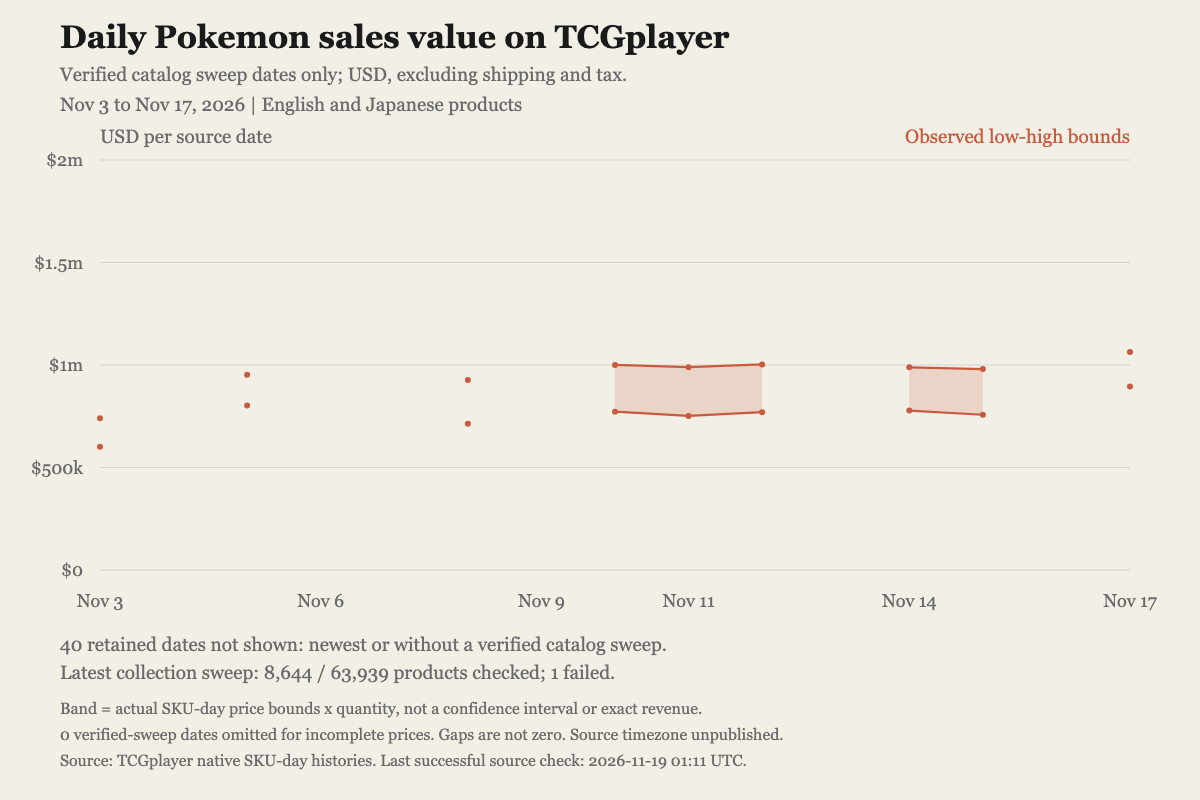
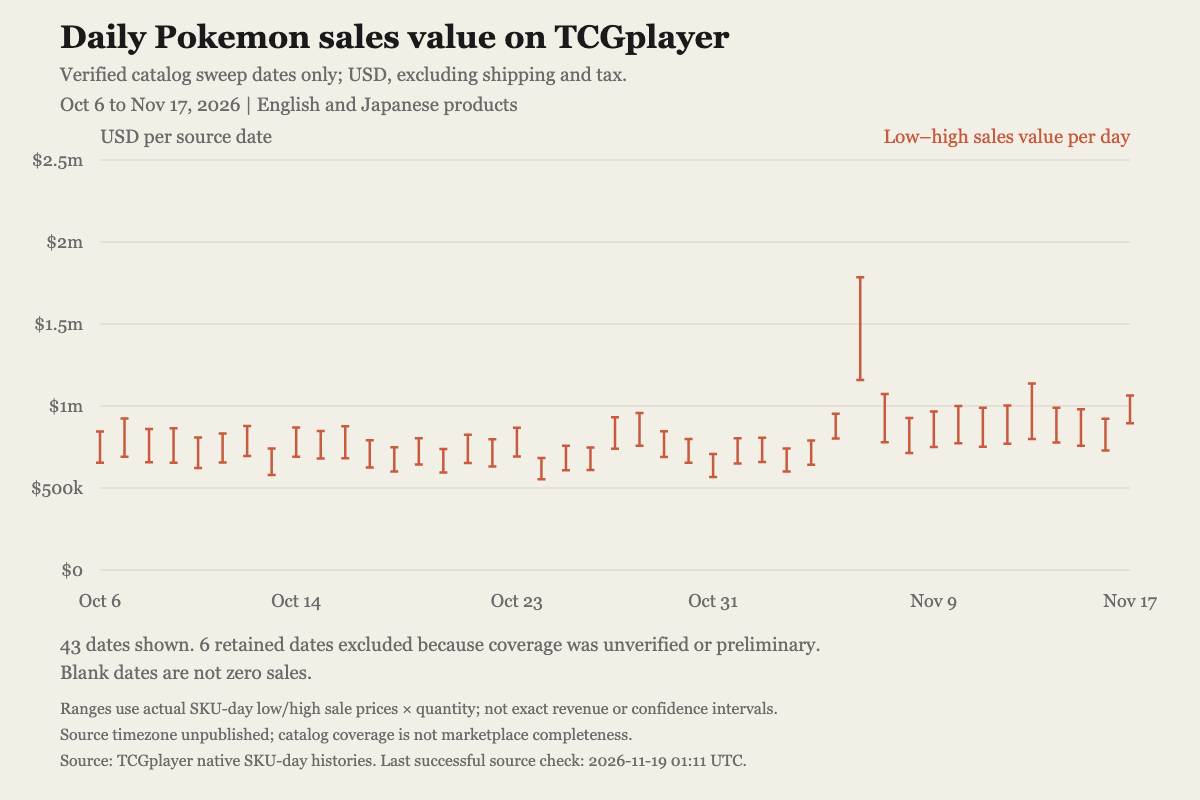
Verify historical backfills and plot consistent daily sales ranges

diff --git a/src/sales-figure.js b/src/sales-figure.js
@@ -5,7 +5,6 @@ import { createHash } from 'node:crypto';
 import { dailyCsv, writeVolumeFigure } from './figures.js';
 import { csv } from './store.js';
 
-const day = 86400000;
 const escape = value => String(value).replace(/[&<>"']/g, char =>
   ({ '&': '&amp;', '<': '&lt;', '>': '&gt;', '"': '&quot;', "'": '&apos;' })[char]);
 const count = value => Number(value).toLocaleString('en-US');
@@ -57,47 +56,34 @@ export function salesFigure(rows, coverage, background = '#F7F5F0') {
   const x = date => maximum === minimum ? 615 : 100 + (Date.parse(date) - minimum) / (maximum - minimum) * 1030;
   const top = 160, bottom = 570;
   const visible = data.filter(row => row.plot_lower_usd !== '');
-  const rawCeiling = Math.max(1,...visible.map(row => row.plot_upper_usd)) * 1.08;
-  const magnitude = 10 ** Math.floor(Math.log10(rawCeiling));
-  const ceiling = [1,2,2.5,5,10].find(value => value >= rawCeiling / magnitude) * magnitude;
+  const rawStep = Math.max(1,...visible.map(row => row.plot_upper_usd)) * 1.08 / 5;
+  const magnitude = 10 ** Math.floor(Math.log10(rawStep));
+  const step = [1,2,2.5,5,10].find(value => value >= rawStep / magnitude) * magnitude;
+  const ceiling = step * 5;
   const y = value => bottom - value / ceiling * (bottom - top);
   const text = (left, baseline, value, attributes = '') =>
     `<text x="${left}" y="${baseline}" ${attributes}>${escape(value)}</text>`;
   const missing = data.filter(row => ['missing_prices','partial_prices'].includes(row.plot_status)).length;
   const sweep = coverage.sweep;
   const withheld = data.length - eligible.length;
-  const latestNote = `${withheld} retained dates not shown: newest or without a verified catalog sweep.`;
+  const latestNote = `${visible.length} dates shown. ${withheld} retained dates excluded because coverage was unverified or preliminary.`;
   const coverageNote = sweep ? `Latest collection sweep: ${count(sweep.products_checked)} / ${count(sweep.products_expected)} products checked; ${count(sweep.products_failed)} failed.`
     : 'Catalog sweep completeness is not established.';
   const caption = 'Daily observed Pokemon item-value bounds on TCGplayer, across English and Japanese catalog products. ' +
     'Bounds sum SKU-day quantities multiplied by actual low/high unit sale prices; they are not a confidence interval or exact revenue. ' +
     'Shipping and tax are excluded. Only closed source dates supported by verified catalog sweeps and complete price coverage are plotted. ' +
-    'Unverified dates and incomplete prices are retained in the CSV; gaps are not zero sales. A catalog sweep is not a certified marketplace total.';
+    'Each vertical mark spans one day’s low and high bounds; days are not interpolated. Unverified dates and incomplete prices remain in the CSV. ' +
+    'A catalog sweep is not a certified marketplace total.';
   const alt = `Pokemon sales value${eligible.length ? ` from ${first} to ${last}` : ': no dates with verified sweeps'}. ${latestNote} ${coverageNote} ${missing} dates omitted for incomplete prices.`;
   let marks = '';
-  for (let tick = 0; tick <= 4; tick++) {
-    const value = ceiling * tick / 4;
+  for (let tick = 0; tick <= 5; tick++) {
+    const value = step * tick;
     marks += `<path d="M100,${y(value)}H1130" class="grid"/>` +
       text(83,y(value) + 6,usd(value),'class="axis" text-anchor="end"');
   }
-  const segments = [];
-  let segment = [];
-  const flush = () => { if (segment.length) segments.push(segment); segment = []; };
-  for (const row of data) {
-    if (row.plot_status !== 'historical' ||
-        segment.length && Date.parse(row.date_source) - Date.parse(segment.at(-1).date_source) !== day) flush();
-    if (row.plot_status === 'historical') segment.push(row);
-  }
-  flush();
-  for (const part of segments) {
-    const coordinates = field => part.map(row => `${x(row.date_source)},${y(row[field])}`);
-    if (part.length > 1) marks += `<polygon data-series="historical" points="${[
-      ...coordinates('plot_upper_usd'), ...coordinates('plot_lower_usd').reverse(),
-    ].join(' ')}" fill="#C85A3D" fill-opacity="0.18"/>`;
-    for (const field of ['plot_lower_usd','plot_upper_usd']) {
-      marks += `<polyline data-series="historical" points="${coordinates(field).join(' ')}" fill="none" stroke="#C85A3D" stroke-width="2.2"/>`;
-      for (const row of part) marks += `<circle cx="${x(row.date_source)}" cy="${y(row[field])}" r="3" fill="#C85A3D"><title>${escape(`${row.date_source}: ${usd(row.plot_lower_usd)} to ${usd(row.plot_upper_usd)}`)}</title></circle>`;
-    }
+  for (const row of visible) {
+    const left = x(row.date_source), low = y(row.plot_lower_usd), high = y(row.plot_upper_usd);
+    marks += `<path data-series="daily-range" d="M${left},${low}V${high}M${left - 4},${low}h8M${left - 4},${high}h8" fill="none" stroke="#C85A3D" stroke-width="2.5"><title>${escape(`${row.date_source}: ${usd(row.plot_lower_usd)} to ${usd(row.plot_upper_usd)}`)}</title></path>`;
   }
   if (!visible.length) marks += text(615,355,'No dates with verified sweep and price coverage; no zero sales inferred.',
     'class="muted" text-anchor="middle"');
@@ -119,12 +105,12 @@ ${text(60,111,eligible.length
   ? `${first === last ? dateLabel(last) : `${dateLabel(first)} to ${dateLabel(last)}`}, ${last.slice(0,4)} | English and Japanese products`
   : 'No closed dates with verified catalog coverage.','class="muted"')}
 ${text(100,143,'USD per source date','class="muted"')}
-${text(1130,143,'Observed low-high bounds','text-anchor="end" style="fill:#C85A3D"')}
+${text(1130,143,'Low–high sales value per day','text-anchor="end" style="fill:#C85A3D"')}
 ${marks}
 ${text(60,651,latestNote,'class="muted"')}
-${text(60,679,coverageNote,'class="muted"')}
-${text(60,714,'Band = actual SKU-day price bounds x quantity, not a confidence interval or exact revenue.','class="note"')}
-${text(60,740,`${missing} verified-sweep dates omitted for incomplete prices. Gaps are not zero. Source timezone unpublished.`,'class="note"')}
+${text(60,679,'Blank dates are not zero sales.','class="muted"')}
+${text(60,714,'Ranges use actual SKU-day low/high sale prices × quantity; not exact revenue or confidence intervals.','class="note"')}
+${text(60,740,`${missing ? `${missing} verified dates omitted for incomplete prices. ` : ''}Source timezone unpublished; catalog coverage is not marketplace completeness.`,'class="note"')}
 ${text(60,766,`Source: TCGplayer native SKU-day histories. Last successful source check: ${checked} UTC.`,'class="note"')}
 </svg>\n` };
 }

diff --git a/src/publish.js b/src/publish.js
@@ -126,31 +126,41 @@ function* csvChunks(rows, fields) {
 }
 
 export function verifiedReportingDates(db, latestDate) {
-  const sweeps = db.prepare(`SELECT *, date(date_utc,'-1 day') AS report_date
+  const sweeps = db.prepare(`SELECT *, date(date_utc,'-29 days') AS window_start
     FROM volume_runs
     WHERE status='complete' AND products_failed=0 AND products_expected>0
       AND products_checked=products_expected AND products_with_history>0
       AND products_with_history+products_without_history=products_expected
       AND date_utc<=? AND finished_at IS NOT NULL
-    ORDER BY date_utc`).all(latestDate);
-  const counts = db.prepare(`WITH observed AS MATERIALIZED (
-      SELECT product_id,
-        max(CASE WHEN date_source=? THEN last_seen END) AS closed_seen,
-        max(CASE WHEN date_source=? THEN last_seen END) AS later_seen
-      FROM daily_volume WHERE date_source IN (?,?) GROUP BY product_id
-    ) SELECT count(*) AS jobs,
+    ORDER BY date_utc DESC`).all(latestDate);
+  const counts = db.prepare(`SELECT count(*) AS jobs,
       count(*) FILTER (WHERE status='success' AND buckets>0 AND buckets%30=0
-        AND closed_seen>=fetched_at AND later_seen>=fetched_at
         AND julianday(fetched_at) BETWEEN julianday(?) AND julianday(?)) AS histories,
       count(*) FILTER (WHERE status='empty' AND buckets=0
         AND julianday(fetched_at) BETWEEN julianday(?) AND julianday(?)) AS empty
-    FROM volume_jobs j LEFT JOIN observed o USING(product_id) WHERE j.date_utc=?`);
-  return sweeps.filter(run => {
-    const { date_utc: queue, report_date: date, finished_at: finished } = run;
-    const saved = counts.get(date,queue,date,queue,queue,finished,queue,finished,queue);
-    return saved.jobs === run.products_expected && saved.histories === run.products_with_history &&
-      saved.empty === run.products_without_history;
-  }).map(run => run.report_date);
+    FROM volume_jobs WHERE date_utc=?`);
+  const dates = db.prepare(`SELECT DISTINCT date_source FROM daily_volume WHERE date_source<?`)
+    .all(latestDate).map(row => row.date_source);
+  const verified = new Set();
+  for (const run of sweeps) {
+    const { date_utc: queue, window_start: start, finished_at: finished } = run;
+    const candidates = dates.filter(date => date >= start && date < queue && !verified.has(date));
+    if (!candidates.length) continue;
+    const saved = counts.get(queue,finished,queue,finished,queue);
+    if (saved.jobs !== run.products_expected || saved.histories !== run.products_with_history ||
+        saved.empty !== run.products_without_history) continue;
+    // The later bucket establishes the date boundary; historical buckets must cover the response's SKU count.
+    const covered = db.prepare(`SELECT date_source,count(*) AS products FROM (
+      SELECT v.date_source FROM daily_volume v NOT INDEXED CROSS JOIN volume_jobs j
+        ON j.product_id=v.product_id AND v.last_seen>=j.fetched_at
+      WHERE j.date_utc=? AND j.status='success'
+        AND v.date_source IN (${[...candidates,queue].map(() => '?').join(',')})
+      GROUP BY j.product_id,v.date_source HAVING count(*)>=j.buckets/30 OR v.date_source=?
+    ) GROUP BY date_source`).all(queue,...candidates,queue,queue)
+      .filter(row => row.products === run.products_with_history).map(row => row.date_source);
+    if (covered.includes(queue)) for (const date of covered) if (date !== queue) verified.add(date);
+  }
+  return [...verified].sort();
 }
 
 export function updateReadmeLeaderboard(readme, daily, pokemon, reportingDates) {

diff --git a/test/sales-figure.test.js b/test/sales-figure.test.js
@@ -24,20 +24,20 @@ test('historical bounds preserve price gaps and omit the partial latest day', ()
   assert.deepEqual(figure.data.map(row => row.plot_status),
     ['historical','partial_prices','historical','partial_day']);
   assert.equal(figure.data[1].plot_lower_usd,'');
-  assert.equal((figure.svg.match(/<polyline data-series="historical"/g) ?? []).length,4);
+  assert.equal((figure.svg.match(/data-series="daily-range"/g) ?? []).length,2);
   assert.equal(figure.data[3].plot_lower_usd, '');
   assert.ok(!figure.svg.includes('2026-11-04:'));
   assert.ok(!figure.svg.includes('<polygon'));
   assert.ok(figure.alt.includes('9 / 10 products checked; 1 failed'));
   assert.ok(figure.alt.includes('1 dates omitted'));
-  assert.ok(figure.svg.includes('not a confidence interval or exact revenue'));
+  assert.ok(figure.svg.includes('not exact revenue or confidence intervals'));
   assert.ok(!/NaN|Infinity/.test(figure.svg));
 });
 
-test('an entirely absent source date breaks the historical band', () => {
+test('absent dates leave a gap between consistent daily range marks', () => {
   const { svg } = salesFigure([rows[0],rows[2],rows[3]],coverage);
-  assert.ok(!svg.includes('<polygon'));
-  assert.equal((svg.match(/<polyline /g) ?? []).length,4);
+  assert.doesNotMatch(svg, /<polygon|<polyline|2026-11-02:/);
+  assert.equal((svg.match(/data-series="daily-range"/g) ?? []).length,2);
 });
 
 test('only verified, priced zero days plot at zero, while missing prices stay unavailable', () => {
@@ -92,7 +92,7 @@ test('the publication bundle includes actual PNGs, replay data, captions and ver
   }
   assert.equal(metadata.rows,4);
   assert.ok(metadata.caption.includes('not a confidence interval'));
-  assert.ok(metadata.alt.includes('newest or without a verified catalog sweep'));
+  assert.ok(metadata.alt.includes('coverage was unverified or preliminary'));
   assert.ok(readFileSync(join(directory,'sales-value.csv'),'utf8').includes('"partial_day"'));
   for (const name of ['sales-value.png','sales-value-moe.png']) {
     const bytes = readFileSync(join(directory,name));

diff --git a/test/publish.test.js b/test/publish.test.js
@@ -332,8 +332,15 @@ if (process.argv[2] === 'release' && process.argv[3] === 'edit') {
       (?,?,?,?,'complete',1,1,1,0,0,'')`).run(queue, stamp, stamp, stamp);
     store.db.prepare(`INSERT INTO volume_jobs VALUES
       (?,1,'success',1,?,30,'')`).run(queue, stamp);
-    const eligible = new Date(Date.parse(queue) - 86400000).toISOString().slice(0, 10);
-    assert.deepEqual(verifiedReportingDates(store.db, queue), [eligible]);
+    const closedDates = Array.from({length: 29}, (_, i) =>
+      new Date(Date.parse(queue) - (29 - i) * 86400000).toISOString().slice(0, 10));
+    const eligible = closedDates.at(-1);
+    assert.deepEqual(verifiedReportingDates(store.db, queue), closedDates);
+    store.db.exec('SAVEPOINT missing_historical_day');
+    store.db.prepare('UPDATE daily_volume SET last_seen=? WHERE date_source=?')
+      .run(`${closedDates[0]}T23:59:59.999Z`, closedDates[0]);
+    assert.deepEqual(verifiedReportingDates(store.db, queue), closedDates.slice(1));
+    store.db.exec('ROLLBACK TO missing_historical_day; RELEASE missing_historical_day');
     store.db.exec('SAVEPOINT incomplete_fixture');
     store.db.prepare('UPDATE volume_runs SET status=? WHERE date_utc=?').run('paused', queue);
     assert.deepEqual(verifiedReportingDates(store.db, queue), []);

diff --git a/docs/methodology.md b/docs/methodology.md
@@ -160,10 +160,11 @@ native-volume publication; they are not top-product lists.
 
 The README leaderboard and publication figures use `coverage.json`'s
 `reporting_dates`, not simply all but the newest source day. Each eligible
-date is the day before a completed UTC sweep with all expected jobs saved as
-successful or empty. Every successful product must have saved observations for
-both source dates at or after its fetch in that sweep. This confirms the
-requested source day is no longer the newest bucket for those products. The
+date is in the rolling history of a completed UTC sweep with all expected jobs
+saved as successful or empty. Every successful product must have at least its
+response's SKU count saved on the reporting day, plus a bucket on the later
+sweep date. Both must have been observed at or after the product's fetch in that
+sweep. The sweep date itself is excluded. The
 leaderboard ranks units on the latest eligible date (ties by species key); the
 main dollar figure additionally requires all reported units to have prices.
 Other dates remain in the downloads. Verified catalog sweeps do not establish

diff --git a/README.md b/README.md
@@ -22,7 +22,7 @@ partial, not a certified total for the whole marketplace**.
   <img src="reports/latest/sales-value.png" width="1200" alt="Daily Pokemon sales value: actual low-high price bounds on dates with verified catalog sweeps">
 </p>
 
-The terracotta band shows daily item-value bounds from actual low/high SKU sale
+Each vertical mark shows one day's item-value bounds from actual low/high SKU sale
 prices, **not exact revenue or a confidence interval**. Only closed dates with
 verified catalog sweeps and complete price coverage are plotted. Missing and
 partial days are left out, not treated as zero.
